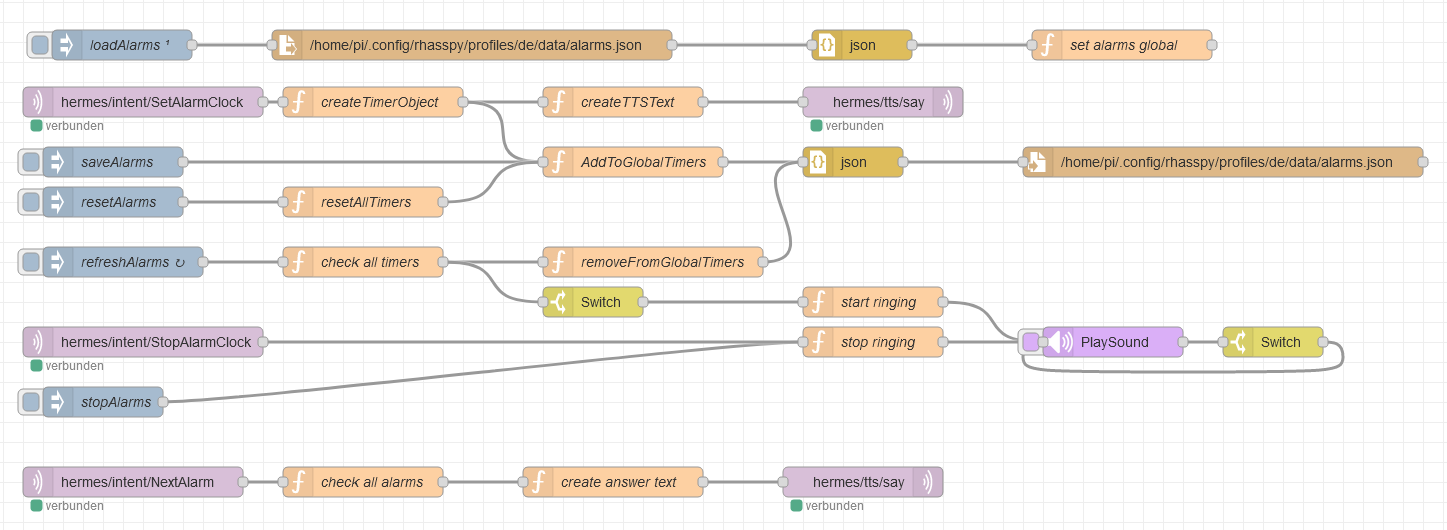
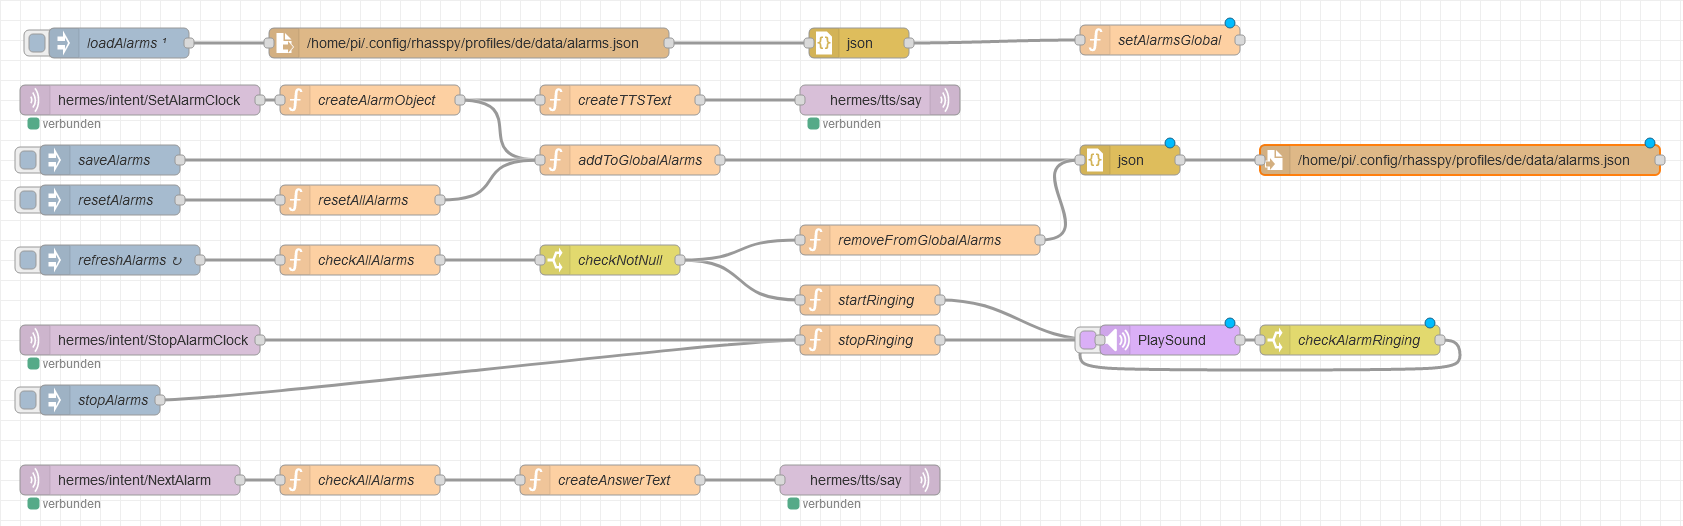
add alarmJS description and alarm.json

diff --git a/docs/pages/results/alarm/alarmJS.md b/docs/pages/results/alarm/alarmJS.md
@@ -14,4 +14,261 @@ grand_parent: Results
 {:toc}
 </details>
 
-![Timer with JavaScript](/assets/alarmJSFull.png)
+# Alarm with JS
+We created a alarm feature in NodeRed with JS Functions. Here is a small overview:
+
+![Alarm with JavaScript](/assets/alarmJSFull.png)
+
+## Requirements
+- `PlaySound` node from [node-red-contrib-play-sound](https://flows.nodered.org/node/node-red-contrib-play-sound)
+
+## Features
+- It can load and save alarms from a file. So when te raspberry turns of and on again the alarms are will be leaded again.
+- Set an alarm via voice you can set hours, minutes and seconds.
+- You can clear all alarms.
+- Stop an alarm via voice
+- And you can ask when the next alarm is set answer via TTS.
+- 1 second refresh time.
+- TTS tells you which time you set the alarm
+
+## Savefile
+The alarms are saved in the profile folder: 
+```
+/home/pi/.config/rhasspy/profiles/de/data/alarms.json
+```
+
+## Alarm sound
+Tha alarm sound is setup here:
+```
+/home/pi/.config/rhasspy/profiles/de/data/alarm.mp3
+```
+You can edit it or set another path. Important is that you use an absolut path to link the mp3 file. Otherwise NodeRed looksin its own workfolder.
+
+## Description
+I start to describe the flow from top to bottom. so we start with the loading the alarms from a file.
+
+### Load Alarms
+![Load Alarms](/assets/alarmJSLoad.png)
+Loading all alarms from a file will be triggered at the start of NodeRed. The injector `loadAlarms` triggers the `file in` node.
+The `file in` node reads the whole file and hands it to the json node, which converts the JSON data format to a JavaScript(JS) object. 
+This JS object goes to the function `setAlarmsGlobal`. This function saves all alarms in a global array in NodeRed, so we can access 
+them from everywhere.
+
+### Intent `SetAlarmClock`
+![Set new alarm](/assets/alarmJSSet.png)
+When an `SetAlarmClock` intent enterns the mqtt-Server the function `createTimerObject` will be triggered.
+This function extract the hour, minutes and seconds from the message and create a alarm object in this format:
+```
+{alarmSet : <dateTime the alarm was set>, alarmAt : <dateTime the alarm should ring>};
+```
+Here is the sourcecode of this function:
+```javascript
+var seconds = 0;
+var minutes = 0;
+var hours = 0;
+
+for(var i = 0; i < msg.payload.slots.length; i++)
+{
+    if(msg.payload.slots[i].slotName === "seconds")
+        seconds = msg.payload.slots[i].value.value;
+    if(msg.payload.slots[i].slotName === "minutes")
+        minutes = msg.payload.slots[i].value.value;
+    if(msg.payload.slots[i].slotName === "hours")
+        hours = msg.payload.slots[i].value.value;
+}
+var alarmSetAt = new Date();
+var alarmAt = new Date(alarmSetAt.getFullYear(), alarmSetAt.getMonth(), alarmSetAt.getDate(), hours, minutes, seconds);
+node.warn(alarmSetAt.getTime());
+node.warn(alarmAt.getTime());
+if(alarmSetAt.getTime() > alarmAt.getTime())
+    alarmAt.setDate(alarmAt.getDate() + 1);
+
+msg.payload = {alarmSet : alarmSetAt, alarmAt : alarmAt};
+return msg;
+```
+
+This alarm object goes now to two functions, to `createTTSText` and to `AddToGlobalAlarms`.
+`createTTSText` creates the message the TTS should say. here is the code:
+```javascript
+var alarmAt = new Date(msg.payload.alarmAt);
+var hours = alarmAt.getHours();
+var minutes = alarmAt.getMinutes();
+var seconds = alarmAt.getSeconds();
+
+var text = "Es wurde ein Wecker für ";
+if(hours !== 0)
+    text += hours + " Uhr ";
+if(minutes !== 0)
+    text += "und " + minutes + " Minuten ";
+if(seconds !== 0)
+    text += "und " + seconds + " Sekunden ";
+    
+text += "gesetzt.";
+msg.payload = {text: text, siteId: "default", id: "testID"};
+return msg;
+```
+After this function the TTS says the text in `msg.payload`.
+
+The function `AddToGlobalAlarms` adds the new alarm to the global list of alarms:
+```javascript
+var alarms = global.get("alarms");
+if(alarms === undefined)
+    alarms = [];
+
+if(msg.payload != null)
+{
+    alarms.push(msg.payload);
+    global.set("alarms", alarms);
+}
+
+msg.payload = alarms;
+return msg;
+```
+After this function the alarm list will be saved with the node `file` to the file `/home/pi/.config/rhasspy/profiles/de/data/alarms.json`.
+
+### Injection `resetAlarms`
+![Reset all alarms](/assets/alarmJSReset.png)
+This part is for deleting all Alarms from the global list and from the savefile.
+After you click on `resetAlarms` the functions `resetAllAlarms` starts.
+This function sets the global `alarms` array tro an empty array:
+```javascript
+global.set("alarms", []);
+msg.payload = null;
+return msg;
+```
+After this the alarms will be saved in the savefile again.
+
+### Injection `refreshAlarms`
+![Check alarms](/assets/alarmJSCheck.png)
+The injection  `refreshAlarms` triggers the function `checkAllAlarms` every second.
+`checkAllAlarms` goes through every alarm in the global alarm list and checks if it's time to ring.
+When a timer is out of time it will be add to the `readyTimers` array, which will be the output for the function. 
+If `readyTimers` is empty the function will return `null`. 
+
+Here is the Code:
+```javascript
+var dateNow = new Date();
+var readyAlarms = [];
+
+for(var i = 0; i < msg.payload.alarms.length; i++)
+{
+    var thenTime = new Date(msg.payload.alarms[i].alarmAt);
+    if(dateNow.getTime() >= thenTime.getTime())
+    {
+        readyAlarms.push(msg.payload.alarms[i]);
+    }
+}
+
+if(readyAlarms.length > 0)
+    msg.payload = readyAlarms;
+else
+    msg.payload = null;
+return msg;
+```
+
+After this function a switch checks if the message is null or not. If it's null it ignores the message, 
+and if not the message goes to two functions. The function `removeFromGlobalAlarms` removes the alarm from the 
+global array and saves the file.
+```javascript
+
+var alarms = global.get("alarms");
+if(alarms === undefined)
+    alarms = [];
+
+if(msg.payload != null)
+{
+    for(var i = 0; i < msg.payload.length; i++)
+    {
+        for( var j = 0; j < alarms.length; j++) 
+        { 
+            if (alarms[j].alarmSet.toString() == msg.payload[i].alarmSet.toString() && alarms[j].alarmAt.toString() == msg.payload[i].alarmAt.toString())
+            {
+                alarms.splice(j, 1); 
+            }
+        }
+    }
+    
+    
+    global.set("alarms", alarms);
+}
+
+msg.payload = alarms;
+return msg;
+```
+
+And the message from `checkAllAlarms` also goes to the function `startRinging`. In it the message will be set to `"start"` and the 
+global variable `alarmRinging` is set to 1:
+```javascript
+global.set("alarmRinging", 1);
+msg.payload = "start";
+return msg;
+```
+
+The `PlaySound` node will now play the file on this path: 
+```
+/home/pi/.config/rhasspy/profiles/de/data/alarm.mp3
+```
+When the file ends the switch `checkAlarmRinging` checks if the global variable `alarmRinging` is `0`.
+If not the `PlaySound` node starts playing again.
+
+### Intent `StopAlarmClock`
+![Stop an alarm](/assets/alarmJSStop.png)
+The Intent `StopAlarmClock` stops the rining of an alarm. It runs the function `stopRinging`. 
+This sets the global variable `alarmRinging` to `0` and sets the payload to `"stop"`.
+This message goes to the `PlaySound` node, it should stop playing the file. 
+
+Here is the code:
+```javascript
+global.set("alarmRinging", 0);
+msg.payload = "stop";
+return msg;
+```
+
+### Intent `NextAlarm`
+![Reset all alarms](/assets/alarmJSNext.png)
+The Intent `NextAlarm` picks the next due alarmclock and creates a text the TTS should say to inform the user when the next alarm rings.
+
+The Intent first triggers the function `checkAllAlarms`. This function goes through all alarms listed in the global `alarms` variable
+and put the next due alarm in `mas.payload`.
+```javascript
+var alarms = global.get("alarms");
+var nextDate = new Date(new Date().getFullYear()+2000, 0, 0, 0, 0, 0);
+
+for(var i = 0; i < alarms.length; i++)
+{
+    var thenTime = new Date(alarms[i].alarmAt);
+    if(nextDate.getTime() > thenTime.getTime())
+    {
+        nextDate = new Date(thenTime);
+    }
+}
+msg.payload = nextDate;
+return msg;
+```
+
+The function `createAnswerText` is the next function in the flow. It converts the datetime from the alarm in a sentence a human can understand.
+```javascript
+var currentDate = new Date();
+
+var alarmDate = new Date(msg.payload);
+
+var text = "Der nächste Wecker geht "
+if(currentDate.getFullYear() == alarmDate.getFullYear() && currentDate.getMonth() == alarmDate.getMonth() && currentDate.getDay() == alarmDate.getDay())
+    text += "Heute ";
+else if(currentDate.getFullYear() == alarmDate.getFullYear() && currentDate.getMonth() == alarmDate.getMonth() && currentDate.getDay()+1 == alarmDate.getDay())
+    text += "Morgen ";
+else
+    text += "Am " + alarmDate.getDay() + "ten " + alarmDate.getMonth() + "ten " + alarmDate.getFullYear() + " ";
+
+text += "um " + alarmDate.getHours() + " Uhr ";
+if(alarmDate.getMinutes() !== 0)
+    text += alarmDate.getMinutes();
+
+msg.payload = {text: text, siteId: "default", id: "testID"};
+
+return msg;
+```
+The output of this function goes directly to the Mqtt TTS node.
+
+## Download the Flow
+- [Download](https://github.com/th-koeln-intia/ip-sprachassistent-team4/blob/master/flows/alarm.json)

diff --git a/docs/pages/results/alarm/index.md b/docs/pages/results/alarm/index.md
@@ -6,9 +6,9 @@ parent: Results
 nav_order: 0
 ---
 
-# Timer
+# Alarm
 
-## What is a Timer?
+## What is a Alarm?
 A alarm is a feature, that reminds you of an event at a specific time. For example when you have a meeting with your dentist next week on Thurstday at 15:00.
 Then you can set an alarm and Sherlock will remind you on this meeting.
 
